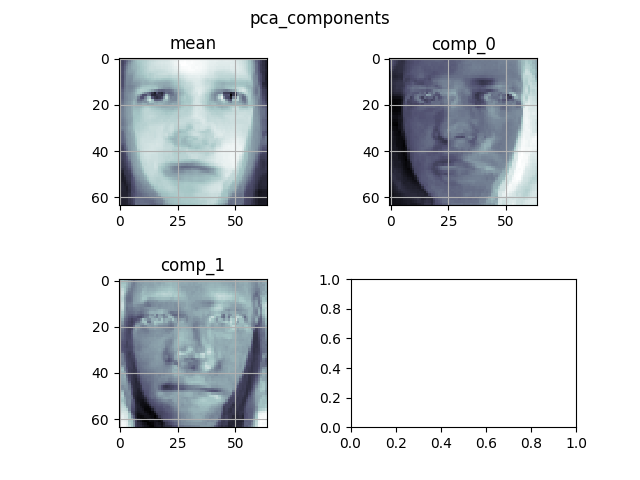
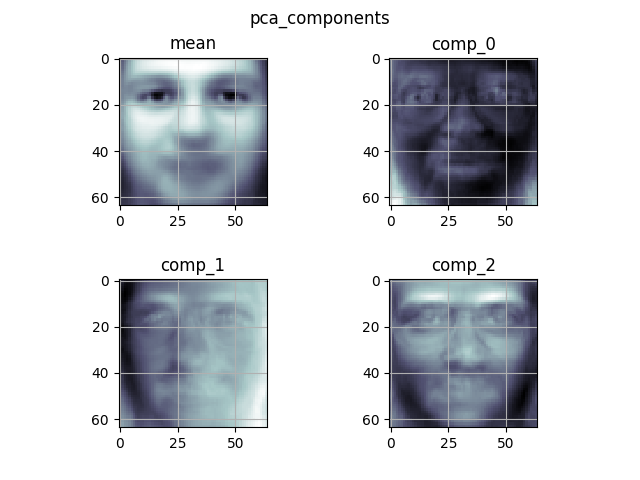
Add more details to README

diff --git a/README.md b/README.md
@@ -2,6 +2,8 @@
 
 This repo contains helper functions and demos in order to generate visualizations for PCA. Specifically, it adds helpers in order to generate new sample from reconstructing instances from the compressed representation.
 
+The functions present in the scripts can be used as utilities to power your own analysis and visualizations.
+
 ## Getting Started
 
 The scripts `main.py` and `visualizer.py` contain all the logic of the program. main.py is the driver program responsible for taking cmd arguments and running the demo if required. `visualization.py` contain helper functions and is the brains behind the repo.
@@ -12,9 +14,82 @@ Use the following commands to get started,
 
 This would run the demo instance which works on a face dataset. It saves the resulting images in the specified directory.
 
+## Results
+
+We use the Olivetti face dataset in order to power are demonstration. This section gives an overview of the section and the resultant figures.
+
+We first fetch the data from sklearn.datasets. This dataset consists of 40 people with 10 instances of each of their faces.
+```
+from sklearn.datasets import fetch_olivetti_faces
+
+# Get the face data images
+face_imgs = fetch_olivetti_faces().data
+
+# Denotes the resized shape if the features are considered as images
+resize_shape = (64, 64)
+```
+
+Note that `resize_shape` would be **different** based on your setup. This is used to render the flattened representation to an image later on.
+
+We then proceed to perform PCA on a subset of the data. We only choose one class in order to get better visualizations.
+
+```
+from sklearn.decomposition import PCA
+
+# We are only operating one class in order to get better visualizations
+# Note that the first 10 faces correspond to the same person. Making it
+# easier to capture all variance in fewer components
+face_imgs = face_imgs[:10]
+
+# Fit the face samples with two components
+pca = PCA(n_components=3, svd_solver='randomized')
+pca.fit(face_imgs)
+```
+
+Now that we've performed PCA, we can proceed to visualize the results. We call some utility functions defined in `visualization.py`
+
+```
+vs.plot_pca_components_as_img(pca, resize_shape)
+```
+
+This plots the PCA components, the result is as shown below,
+![alt text][pca_comps]
+
+We can also plot the distribution of the compressed features.
+
+```
+vs.plot_pca_feature_dist(pca, face_imgs)
+```
+
+In our case, this gives us,
+![alt text][pca_fets]
+
+Finally, we can generate **NEW** instances by sampling values in the compressed feature space and reconstructing it. We have a utility which encapsulates all this logic.
+
+```
+vs.gen_and_plot_imgs_from_pca_coords(pca, resize_shape, face_imgs, num_comps_to_plot=2)
+```
+
+This results in,
+![alt text][pca_gen_imgs]
+
+More details can be found in the comments present in the code.
+
+## Driver script
+
+`main.py` acts as the driver script and supports multiple flags to aid usage. A rough description of the flags is given below,
+
+- **save_dir**:  Optional. Denotes the location where we save the resultant figures
+- **should_save_fig**: Optional. Specifies whether to save the figures or show it on display. Setting this to false opens the plots instead of saving them.
+- **run_demo_with_faces**: Optional. Specifies whether to run the faces plotting demo. If false, then you can choose to write your own script and put it into main to execute.
+
 ## Requirements
 
 - Python3
 - numpy
 - scikit-learn
 - matplotlib
+
+[pca_fets]:  https://github.com/nishantrai18/pca_visualization/blob/master/figures/pca_feat_dist.png "PCA feature distribution"
+[pca_comps]:  https://github.com/nishantrai18/pca_visualization/blob/master/figures/pca_components.png "PCA components"
+[pca_gen_imgs]:  https://github.com/nishantrai18/pca_visualization/blob/master/figures/gen_pca_imgs.png "Generated images"
